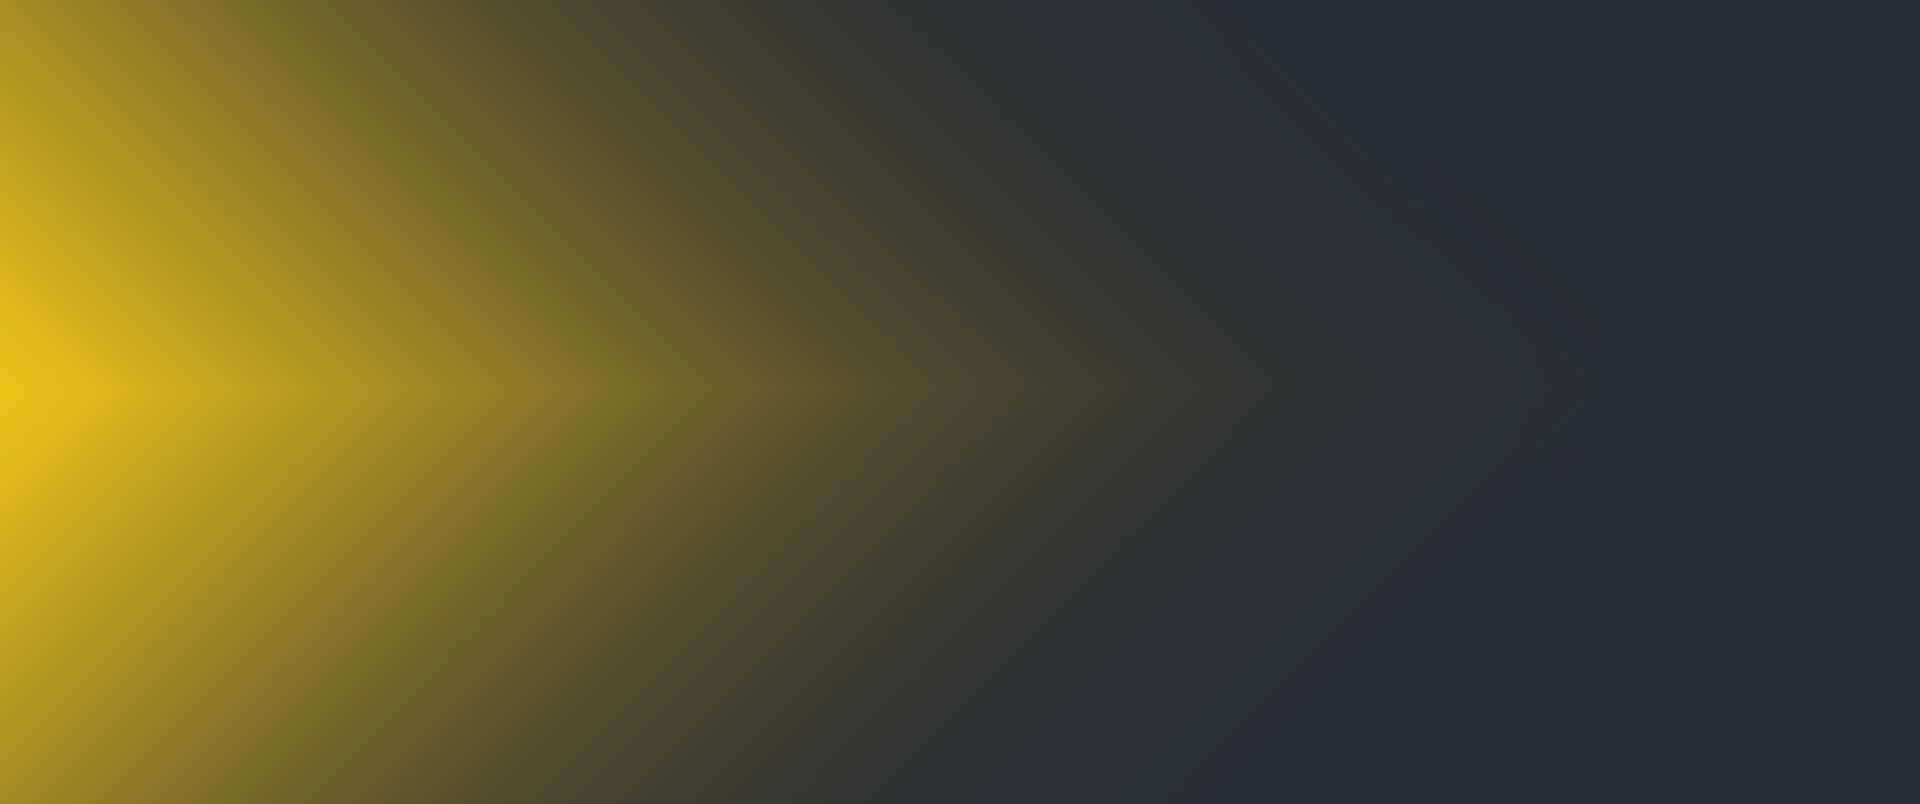
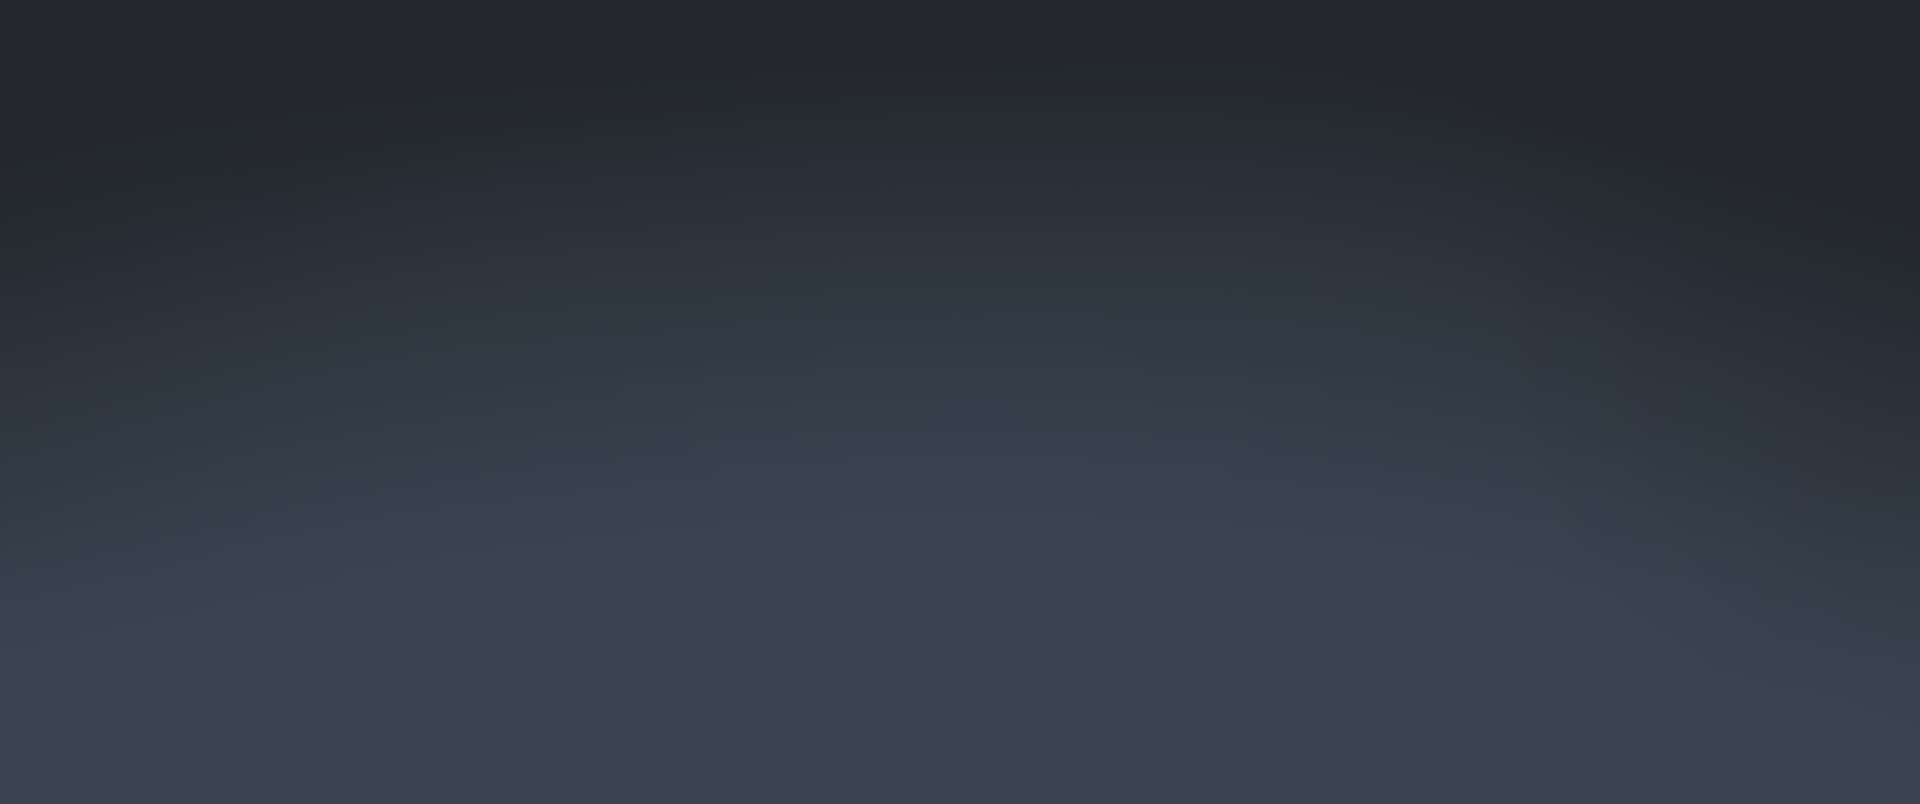
Redux working version

diff --git a/src/App.jsx b/src/App.jsx
@@ -23,21 +23,27 @@ function App(state) {
       <header>
         <HeaderBar />
       </header>
-      <body className="App-body">
-          <Router>
-            <Routes>
-              <Route path='/menu' element={<Menu />} />                                {/* Menu Route (Main page) */}
-              <Route path='/passive-sniffing-mod' element={<PassiveSniffingMode />} />  {/* PassiveSniffingMode Route */}
-              <Route path='/dnsmod' element={<DNSMod />} />                             {/* DNSMod Route */}
-              <Route path='/dnsmasqmod' element={<DNSMasqMod />} />                     {/* DNSMasqMod Route */}
-              <Route path='/simplessh' element={<SimpleSSH />} />                     {/* SimpleSSH Route */}
-              <Route path='/netcatbd' element={<NetcatBD />} />                     {/* NetcatBD Route */}
-              <Route path='/tcpmetasploit' element={<TCPMetasploit />} />                     {/* TCPMetasploit Route */}
-              <Route path='/usbpoweronly' element={<USBPowerOnly />} />                     {/* USBPowerOnly Route */}
-              <Route path='/reset' element={<ResetToDefault />} />                      {/* ResetToDefault Route */}
-              <Route path='*' element={<Navigate to='/menu' />} />                     {/* Switch to menu Route if wrong Route is somehow entered*/}
-            </Routes>
-          </Router>
+      <body>
+        <div className='Background-stack'>
+          <div className='Animated-bg'></div>
+          <div className='Static-bg'></div>
+          <div className='App-body'>
+            <Router>
+              <Routes>
+                <Route path='/menu' element={<Menu />} />                                {/* Menu Route (Main page) */}
+                <Route path='/passive-sniffing-mod' element={<PassiveSniffingMode />} />  {/* PassiveSniffingMode Route */}
+                <Route path='/dnsmod' element={<DNSMod />} />                             {/* DNSMod Route */}
+                <Route path='/dnsmasqmod' element={<DNSMasqMod />} />                     {/* DNSMasqMod Route */}
+                <Route path='/simplessh' element={<SimpleSSH />} />                     {/* SimpleSSH Route */}
+                <Route path='/netcatbd' element={<NetcatBD />} />                     {/* NetcatBD Route */}
+                <Route path='/tcpmetasploit' element={<TCPMetasploit />} />                     {/* TCPMetasploit Route */}
+                <Route path='/usbpoweronly' element={<USBPowerOnly />} />                     {/* USBPowerOnly Route */}
+                <Route path='/reset' element={<ResetToDefault />} />                      {/* ResetToDefault Route */}
+                <Route path='*' element={<Navigate to='/menu' />} />                     {/* Switch to menu Route if wrong Route is somehow entered*/}
+              </Routes>
+            </Router>
+          </div>
+        </div>
       </body>
     </div>
   );

diff --git a/src/App.css b/src/App.css
@@ -2,37 +2,42 @@
   text-align: center;
 }
 
-.App-header {
-  background: fixed;
-  min-height: 60px;
-  background-color: #282c34;
-  position:sticky;
-  text-align: right;
-}
-
-.Header-title {
-  background-color: red;
-  margin-right: 1em;
-}
-
 .App-body {
-  background-image: url('../src/assets/images/background.png');
-
-  background-color: #282c34;
-  background-repeat: no-repeat;
-  background-attachment:scroll;
-  /* scroll|fixed|local|initial|inherit; */
   min-height: 100vh;
   display: flex;
   flex-direction: column;
-  align-items: center;
   justify-content: center;
   font-size: calc(10px + 2vmin);
 }
 
+.Animated-bg {
+  background-image: url('../src/assets/images/backgroundAnim.png');
+  animation: bg-pan-right 5s infinite alternate;
+  background-repeat: no-repeat;
+  background-attachment: scroll;
+  min-height: 100vh;
+  /* scroll|fixed|local|initial|inherit; */
+}
+
+.Static-bg {
+  background-image: url('../src/assets/images/backgroundTransparent.png');
+  min-height: 100vh;
+  background-repeat: no-repeat;
+  background-attachment: scroll;
+}
+
+.Background-stack {
+  display: grid;
+}
+
+.Background-stack>* {
+  grid-column: 1 / 1;
+  grid-row: 1 / 1;
+}
+
 .bg-pan-right {
-	-webkit-animation: bg-pan-right 6s cubic-bezier(0.755, 0.050, 0.855, 0.060) both;
-	        animation: bg-pan-right 6s cubic-bezier(0.755, 0.050, 0.855, 0.060) both;
+  -webkit-animation: bg-pan-right 6s cubic-bezier(0.755, 0.050, 0.855, 0.060) both;
+  animation: bg-pan-right 6s cubic-bezier(0.755, 0.050, 0.855, 0.060) both;
 }
 
 /* ----------------------------------------------
@@ -47,18 +52,21 @@
  * animation bg-pan-right
  * ----------------------------------------
  */
- @-webkit-keyframes bg-pan-right {
+@-webkit-keyframes bg-pan-right {
   0% {
     background-position: 0% 50%;
   }
+
   100% {
     background-position: 100% 50%;
   }
 }
+
 @keyframes bg-pan-right {
   0% {
     background-position: 0% 50%;
   }
+
   100% {
     background-position: 100% 50%;
   }

diff --git a/src/components/HeaderBar/HeaderBar.jsx b/src/components/HeaderBar/HeaderBar.jsx
@@ -1,27 +1,30 @@
 import Container from 'react-bootstrap/Container';
 import Navbar from 'react-bootstrap/Navbar';
+import { useSelector } from 'react-redux';
 import ntstlogo from '../../assets/images/nettrainer_logo_64.png'
 import './HeaderBar.css'
 
-function HeaderBar() {
-  return (
+function HeaderBar(state) {
+
+  return(
     <>
-      <Navbar className='HBarBG'>
-        <Container style={{justifyContent: 'end'}}>
-          <Navbar.Brand href="/menu" className='HBar' >
-            <img
-              alt=""
-              src={ntstlogo}
-              width="30"
-              height="30"
-              margin-top="30px"
-              style={{marginTop: "10px", marginRight: "10px"}}
-              className="d-inline-block align-top"
-            />
-            <h1 className='HBar'> NET-TRAINER-ST</h1>
-          </Navbar.Brand>
-        </Container>
-      </Navbar>
+          <Navbar className='HBarBG'>
+            <Container style={{ justifyContent: 'end' }}>
+              <Navbar.Brand className='HBar'>
+                <img
+                  alt=""
+                  src={ntstlogo}
+                  width="30"
+                  height="30"
+                  margin-top="30px"
+                  style={{ marginTop: "10px", marginRight: "10px" }}
+                  className="d-inline-block align-top"
+                />
+                <h1 className='HBar' onClick={() => {window.history.back()}}> NET-TRAINER-ST</h1>
+              </Navbar.Brand>
+            </Container>
+          </Navbar>
+
     </>
   );
 }

diff --git a/src/routes/Menu.jsx b/src/routes/Menu.jsx
@@ -3,6 +3,8 @@ import Button from '../components/Button/Button'
 import { useNavigate } from 'react-router-dom';
 import './Menu.css'
 import HelpModalJSON from '../assets/HelpModal.json';
+import { useDispatch, useSelector } from 'react-redux';
+import { setModulePicked } from '../store/actions';
 var client = MainMQTT();
 
 
@@ -10,6 +12,13 @@ function Menu() {
     const navigate = useNavigate();
     var title = [];
     var text = [];
+    const modulePicked = useSelector(state => state.modulePicked);
+
+    // const dispatch = useDispatch();
+    // const setNewOverlayColor = (newOverlayColor) => dispatch(setGlobalSettings(newOverlayColor, false));
+    // console.log(modulePicked);
+    const dispatch = useDispatch();
+    const pickNewModule = () => dispatch(setModulePicked('DNS_MOD'));
 
     HelpModalJSON.forEach(modalData => { // Destructuring JSON used for titles and texts for help modals in Menu
         title[modalData.index] = modalData.title;
@@ -20,10 +29,12 @@ function Menu() {
     const PSMClicked = () => {
         client.publish('testMQTT', 'turnOn');
         navigate("/passive-sniffing-mod");
+        console.log(modulePicked);
     }
 
     const DNSModClicked = () => {
         client.publish('testMQTT', 'turnOn');
+        pickNewModule();
         navigate("/dnsmod");
     }
 
@@ -71,5 +82,6 @@ function Menu() {
         </>
     );
 }
+
 
 export default Menu;

diff --git a/src/store/reducers/modulePicked_reducer.js b/src/store/reducers/modulePicked_reducer.js
@@ -1,0 +1,32 @@
+const ModuleOptions = require('../ModuleOptions');
+
+const INITIAL_STATE = {
+    modulePicked: 'none'
+}
+
+
+// eslint-disable-next-line import/no-anonymous-default-export
+export default function (state = INITIAL_STATE, action) {
+
+    switch (action.type) {
+        case 'GET_MODULE_PICKED': {
+            return { modulePicked: action.payload }
+        }
+        case 'SET_MODULE_PICKED': {      
+            var arrayToCheck = Object.keys(ModuleOptions).map(function(key) {
+                return ModuleOptions[key];
+            });
+            const foundOption = arrayToCheck.includes(action.payload.modulePicked);
+            if (foundOption) {
+                console.log(`New module picked ${action.payload.modulePicked}`);
+                return action.payload;
+            } else {
+                throw new Error(`Cannot find action type with ${action.payload.modulePicked}`);
+            }
+
+        }
+        default: {
+            return state;
+        }
+    }
+}

diff --git a/src/index.js b/src/index.js
@@ -5,13 +5,26 @@ import App from './App';
 import reportWebVitals from './reportWebVitals';
 import 'bootstrap/dist/css/bootstrap.min.css'
 import { Provider } from 'react-redux';
+import { createStore, applyMiddleware, compose } from 'redux';
+import promiseMiddleware from 'redux-promise';
+import rootReducer from './store/reducers';
+
+const composeEnhancers = window.__REDUX_DEVTOOLS_EXTENSIONS_COMPOSE__ || compose;
+const createStorWithMiddleware = createStore(
+    rootReducer,
+    composeEnhancers(applyMiddleware(promiseMiddleware))
+);
+const store = createStorWithMiddleware;
 
 const root = ReactDOM.createRoot(document.getElementById('root'));
 root.render(
-  <React.StrictMode>
-    <App />
-  </React.StrictMode>
+
+    <Provider store={store}>
+      <App />
+    </Provider>
+
 );
+
 
 // If you want to start measuring performance in your app, pass a function
 // to log results (for example: reportWebVitals(console.log))

diff --git a/src/store/ModuleOptions.js b/src/store/ModuleOptions.js
@@ -1,0 +1,10 @@
+module.exports = {
+    SNIFFING_MODE: 'SNIFFING_MODE',
+    DNS_MOD: 'DNS_MOD',
+    DNS_MASQ_MOD: 'DNS_MASQ_MOD',
+    SIMPLE_SSH: 'SIMPLE_SSH',
+    NETCAD_BD: 'NETCAD_BD',
+    TCP_METASPLOIT: 'TCP_METASPLOIT',
+    USD_POWER_ONLY: 'USD_POWER_ONLY',
+    RESET_TO_DEFAULT: 'RESET_TO_DEFAULT'
+}

diff --git a/src/store/actions/index.js b/src/store/actions/index.js
@@ -1,0 +1,13 @@
+export function getModulePicked() {
+    return {
+        type: 'GET_MODULE_PICKED',
+        payload: 'modulePicked'
+    }
+}
+
+export function setModulePicked(modulePicked='none') {
+    return {
+        type: 'SET_MODULE_PICKED',
+        payload: {modulePicked}
+    }
+}

diff --git a/src/components/HeaderBar/HeaderBar.css b/src/components/HeaderBar/HeaderBar.css
@@ -16,10 +16,13 @@
 .HBar:hover {
     color: #fbcd16c4;
     transition-duration: 0.2s;
+    cursor: pointer;
 }
 
 .HBarBG {
     color: #282c34;
     background-color: #24282e;
     height: 60px;
+    position: sticky;
+    top: 0;
 }

diff --git a/src/store/reducers/index.js b/src/store/reducers/index.js
@@ -1,0 +1,8 @@
+import { combineReducers } from "redux";
+import modulePicked from './modulePicked_reducer'
+
+const rootReducer = combineReducers({
+    modulePicked
+});
+
+export default rootReducer;

diff --git a/src/store/reducers/InitialStateFormula.js b/src/store/reducers/InitialStateFormula.js
@@ -1,0 +1,5 @@
+// This file was created to help developer "see" initial app state, after combining all reducers
+
+module.exports = {
+    modulePicked: 'none'
+}
